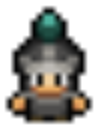
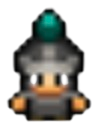
Add color for player himself

Changed region(s): [[0.0312, 0.0294, 0.9688, 0.9118], [0.625, 0.5294, 0.7188, 0.6471], [0.3125, 0.5294, 0.4062, 0.6176]]

diff --git a/ui/client/src/components/Map.css b/ui/client/src/components/Map.css
@@ -3,7 +3,7 @@
   grid-template-columns: repeat(10, 50px); /* 10列，每列宽度固定为50px */
   grid-template-rows: repeat(10, 50px);    /* 10行，每行高度固定为50px */
   grid-gap: 1px;  /* 间隙设置为5px */
-  /* width: 510px; 
+  /* width: 510px;
   height: 510px; */
   margin: auto;   /* 居中显示 */
 }
@@ -40,7 +40,7 @@
   justify-content: center;
   color: white;
   background-image: url('player.png');
-  background-size: cover; 
+  background-size: cover;
   background-position: center;
 } */
 
@@ -48,8 +48,18 @@
   position: relative; /* 使得可以相对定位子元素 */
   width: 100%;
   height: 100%;
-  color: white;
+  background-color: white;
   background-image: url('player.png');
+  background-size: cover; /* 使背景图片覆盖整个单元格 */
+  background-position: center; /* 将背景图片置于中心 */
+}
+
+.current-player {
+  position: relative; /* 使得可以相对定位子元素 */
+  width: 100%;
+  height: 100%;
+  background-color: yellow;
+  background-image: url('player.png'), linear-gradient(to bottom, yellow, red);
   background-size: cover; /* 使背景图片覆盖整个单元格 */
   background-position: center; /* 将背景图片置于中心 */
 }
@@ -133,7 +143,7 @@
 }
 
 .players-panel {
-  max-width: 550px; 
+  max-width: 550px;
   width: 150px;  /* 或你希望的任何固定宽度 */
   margin-left: 10px;
   padding: 10px;

diff --git a/ui/client/src/components/Map.js b/ui/client/src/components/Map.js
@@ -1,13 +1,15 @@
 import React from 'react';
 import './Map.css'; // 导入样式
 
-function Map({ mapData }) {
+function Map({ mapData, playerIdInRoom }) {
   return (
     <div className="map">
       {mapData.map((row, rowIndex) => (
         row.map((cell, colIndex) => (
           <div className={`cell ${cell !== 0 ? `player${cell}` : ''}`} key={`${rowIndex}-${colIndex}`}>
-            {cell !== 0 && <div className="player"> <div className="player-number">{cell}</div></div>}
+            {
+              cell !== 0 && <div className={playerIdInRoom === cell ? "current-player" : "player"}> <div className="player-number">{cell}</div></div>
+            }
           </div>
         ))
       ))}

diff --git a/ui/client/src/App.js b/ui/client/src/App.js
@@ -556,7 +556,7 @@ function App() {
           { isLoading && <LoadingScreen/> }
           <ToastContainer/>
           <DeathModal show={ isCharacterDead } onRejoin={ handleRejoin }/>
-          <Map mapData={ gameStatus.mapData }/>
+          <Map mapData={ gameStatus.mapData } playerIdInRoom={ gameStatus.playerIdInRoom }/>
           <div className="control-panel">
             <button onClick={ () => move('up') }
                     disabled={ isMoving }>{ isMoving ? '⌛' : 'W' }</button>
